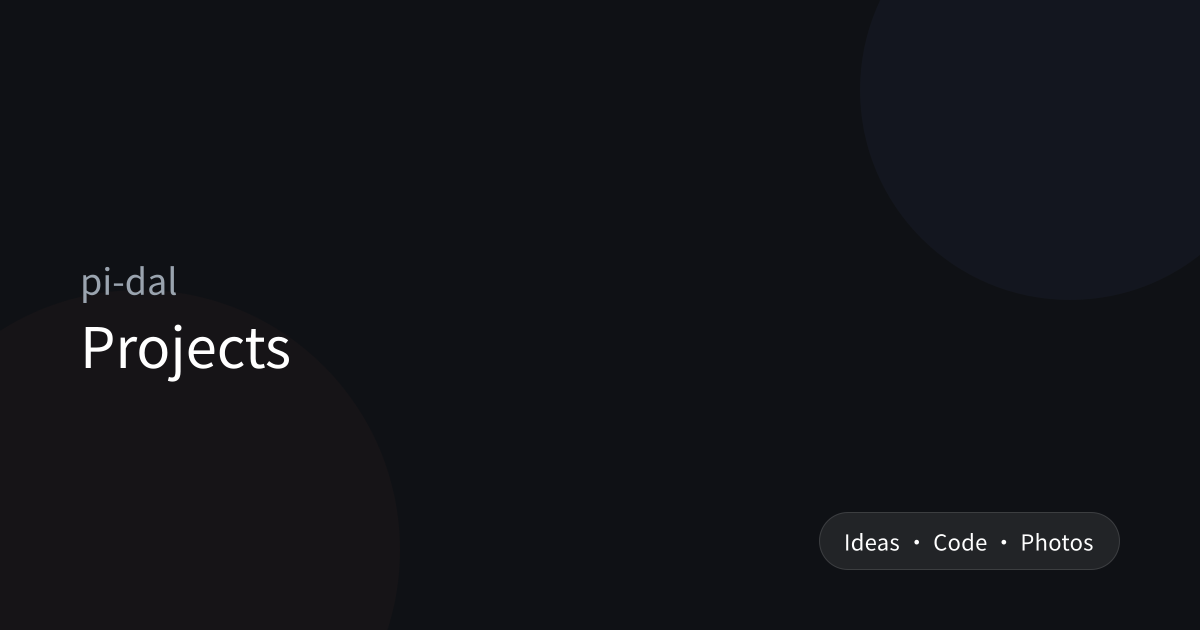
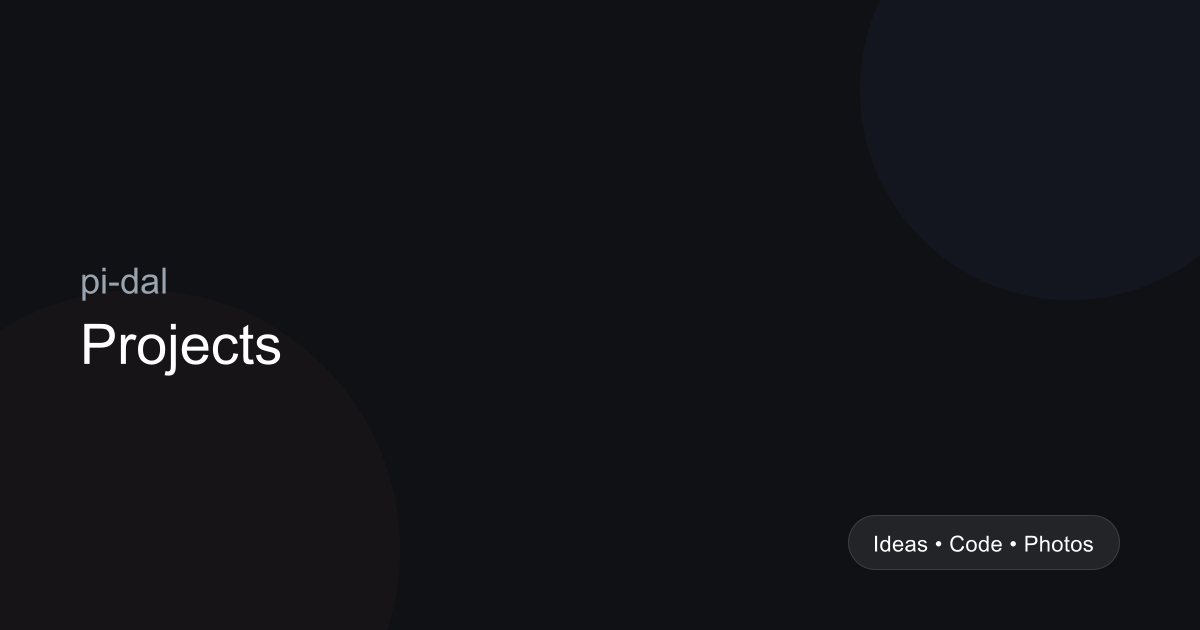
feat: enhance OG image font loading with system fallback and add projects page overhaul
- Rewrite projects page with categorized project listings (maintained vs contributed)
- Add system font fallback mechanism for OG image generation when remote fetch is disabled
- Introduce NO_WEBFONT_FETCH environment variable to control remote Google Fonts usage
- Add isSupportedFontData() to detect woff2 font format and reject incompatible buffers
- Add readFirstCompatibleFont() to iterate through font paths and find compatible ones
- Support multiple system font paths for cross-platform compatibility (macOS, Linux)
- Regenerate OG image for projects page to match updated content
- Add unit tests for font loading utilities (og-fonts.test.ts)

This change allows the build to work in CI/SSG environments where remote font
fetching is disabled, while still producing valid OG images using system fonts.

Changed region(s): [[0.0617, 0.5127, 0.2467, 0.6032], [0.6783, 0.8444, 0.925, 0.8746], [0.0617, 0.4222, 0.1542, 0.4825]]

diff --git a/scripts/og.ts b/scripts/og.ts
@@ -22,54 +22,56 @@ const FONT_URLS = {
   regular: 'https://fonts.googleapis.com/css2?family=Noto+Sans+SC:wght@400&display=swap',
   bold: 'https://fonts.googleapis.com/css2?family=Noto+Sans+SC:wght@700&display=swap',
 } as const
+const ALLOW_REMOTE_FONT_FETCH = process.env.NO_WEBFONT_FETCH !== '1'
+const SYSTEM_FONT_FALLBACKS = [
+  '/System/Library/Fonts/Supplemental/Arial Unicode.ttf',
+  '/System/Library/Fonts/Hiragino Sans GB.ttc',
+  '/System/Library/Fonts/STHeiti Light.ttc',
+  '/System/Library/Fonts/STHeiti Medium.ttc',
+  '/usr/share/fonts/opentype/noto/NotoSansCJK-Regular.ttc',
+  '/usr/share/fonts/truetype/noto/NotoSansCJK-Regular.ttc',
+  '/usr/share/fonts/truetype/dejavu/DejaVuSans.ttf',
+] as const
 
 const localFontCache = new Map<string, Buffer | null>()
 const remoteFontCache = new Map<string, Buffer>()
-let localFontDirEntries: string[] | null = null
 
-async function ensureLocalFontDirEntries(): Promise<string[]> {
-  if (localFontDirEntries)
-    return localFontDirEntries
+export function isSupportedFontData(buffer: Buffer): boolean {
+  if (buffer.length < 4)
+    return false
 
-  if (!await fs.pathExists(LOCAL_FONT_DIR)) {
-    localFontDirEntries = []
-    return localFontDirEntries
+  const signature = buffer.subarray(0, 4).toString('ascii')
+  return signature !== 'wOFF' && signature !== 'wOF2'
+}
+
+export async function readFirstCompatibleFont(paths: string[]): Promise<Buffer | null> {
+  for (const fontPath of paths) {
+    if (!await fs.pathExists(fontPath))
+      continue
+
+    const buffer = await fs.readFile(fontPath)
+    if (isSupportedFontData(buffer))
+      return buffer
   }
 
-  localFontDirEntries = await fs.readdir(LOCAL_FONT_DIR)
-  return localFontDirEntries
+  return null
 }
 
 async function loadLocalFont(key: string, filenames: string[]): Promise<Buffer | null> {
   if (localFontCache.has(key))
     return localFontCache.get(key) ?? null
 
-  for (const filename of filenames) {
-    const fullPath = join(LOCAL_FONT_DIR, filename)
-    if (await fs.pathExists(fullPath)) {
-      const buf = await fs.readFile(fullPath)
-      localFontCache.set(key, buf)
-      return buf
-    }
-  }
-
-  localFontCache.set(key, null)
-  return null
+  const buffer = await readFirstCompatibleFont(filenames.map(filename => join(LOCAL_FONT_DIR, filename)))
+  localFontCache.set(key, buffer)
+  return buffer
 }
 
-async function loadInterFallback(): Promise<Buffer | null> {
-  if (localFontCache.has('inter-fallback'))
-    return localFontCache.get('inter-fallback') ?? null
+async function loadSystemFontFallback(): Promise<Buffer | null> {
+  if (localFontCache.has('system-fallback'))
+    return localFontCache.get('system-fallback') ?? null
 
-  const entries = await ensureLocalFontDirEntries()
-  const candidate = entries.find(file => file.startsWith('inter-') && file.endsWith('.woff2'))
-  if (!candidate) {
-    localFontCache.set('inter-fallback', null)
-    return null
-  }
-
-  const buffer = await fs.readFile(join(LOCAL_FONT_DIR, candidate))
-  localFontCache.set('inter-fallback', buffer)
+  const buffer = await readFirstCompatibleFont([...SYSTEM_FONT_FALLBACKS])
+  localFontCache.set('system-fallback', buffer)
   return buffer
 }
 
@@ -99,6 +101,8 @@ async function fetchFontFromGoogle(fontUrl: string): Promise<Buffer> {
 
   const fontResponse = await withTimeout(signal => fetch(fontFileUrl, { signal }))
   const buf = Buffer.from(await fontResponse.arrayBuffer())
+  if (!isSupportedFontData(buf))
+    throw new Error(`Unsupported remote font format for ${fontUrl}`)
   remoteFontCache.set(fontUrl, buf)
   return buf
 }
@@ -137,7 +141,7 @@ export async function generateOGImage(options: OGImageOptions, outputPath: strin
     })
   }
 
-  if (missingVariants.length) {
+  if (missingVariants.length && ALLOW_REMOTE_FONT_FETCH) {
     const fetchResults = await Promise.allSettled(
       missingVariants.map(({ variant }) => fetchFontFromGoogle(FONT_URLS[variant])),
     )
@@ -150,23 +154,40 @@ export async function generateOGImage(options: OGImageOptions, outputPath: strin
     const rejected = fetchResults.filter((result): result is PromiseRejectedResult => result.status === 'rejected')
     if (rejected.length) {
       const lastError = rejected[rejected.length - 1]?.reason
-      const interFallback = await loadInterFallback()
-      if (interFallback) {
+      const systemFallback = await loadSystemFontFallback()
+      if (systemFallback) {
         if (!notoSansRegular) {
-          notoSansRegular = interFallback
-          localFontCache.set('noto-regular', interFallback)
+          notoSansRegular = systemFallback
+          localFontCache.set('noto-regular', systemFallback)
         }
         if (!notoSansBold) {
-          notoSansBold = interFallback
-          localFontCache.set('noto-bold', interFallback)
+          notoSansBold = systemFallback
+          localFontCache.set('noto-bold', systemFallback)
         }
-        console.warn('[og] Falling back to Inter for fonts; Noto Sans SC unavailable', lastError)
+        console.warn('[og] Falling back to a compatible system font; Noto Sans SC unavailable', lastError)
       }
       else {
         notoSansRegular = null
         notoSansBold = null
         console.warn('[og] Proceeding without embedded fonts due to fetch failure', lastError)
       }
+    }
+  }
+  else if (missingVariants.length) {
+    const systemFallback = await loadSystemFontFallback()
+    if (systemFallback) {
+      if (!notoSansRegular) {
+        notoSansRegular = systemFallback
+        localFontCache.set('noto-regular', systemFallback)
+      }
+      if (!notoSansBold) {
+        notoSansBold = systemFallback
+        localFontCache.set('noto-bold', systemFallback)
+      }
+      console.warn('[og] Using a compatible system font because remote font fetch is disabled')
+    }
+    else {
+      console.warn('[og] Proceeding without embedded fonts because remote font fetch is disabled and no compatible local fallback was found')
     }
   }
 

diff --git a/tests/unit/og-fonts.test.ts b/tests/unit/og-fonts.test.ts
@@ -1,0 +1,36 @@
+import { mkdtemp, writeFile } from 'node:fs/promises'
+import { tmpdir } from 'node:os'
+import { join } from 'node:path'
+
+import { afterEach, describe, expect, it } from 'vitest'
+
+import { isSupportedFontData, readFirstCompatibleFont } from '../../scripts/og'
+
+const tempDirs: string[] = []
+
+afterEach(async () => {
+  await Promise.all(tempDirs.map(dir => import('node:fs/promises').then(({ rm }) => rm(dir, { recursive: true, force: true }))))
+  tempDirs.length = 0
+})
+
+describe('og font loading', () => {
+  it('rejects woff2 buffers for Satori font embedding', () => {
+    expect(isSupportedFontData(Buffer.from('wOF2test'))).toBe(false)
+    expect(isSupportedFontData(Buffer.from([0x00, 0x01, 0x00, 0x00, 0x41, 0x42]))).toBe(true)
+  })
+
+  it('skips incompatible font files and keeps searching for a compatible font', async () => {
+    const dir = await mkdtemp(join(tmpdir(), 'og-fonts-'))
+    tempDirs.push(dir)
+
+    const unsupportedPath = join(dir, 'unsupported.woff2')
+    const compatiblePath = join(dir, 'compatible.ttf')
+
+    await writeFile(unsupportedPath, Buffer.from('wOF2fake'))
+    await writeFile(compatiblePath, Buffer.from([0x00, 0x01, 0x00, 0x00, 0x41, 0x42]))
+
+    const resolved = await readFirstCompatibleFont([unsupportedPath, compatiblePath])
+
+    expect(resolved).toEqual(Buffer.from([0x00, 0x01, 0x00, 0x00, 0x41, 0x42]))
+  })
+})

diff --git a/pages/projects.md b/pages/projects.md
@@ -5,12 +5,35 @@ type: project
 description: Things I build, maintain, or keep experimenting with.
 ---
 
-Most of my public work currently lives on GitHub. This page is the lightweight index while I turn the old remote feed into a proper local project archive.
+Most of my public work lives on GitHub, but the repos do not all represent the same kind of work. Some are projects I build and maintain end to end. Others are open-source or community repos where I contribute fixes, docs, and site work.
 
-Current places to look:
+This page is the short index for the work that best represents how I like to build.
+
+## Projects I maintain
+
+### [django-vditor](https://github.com/pi-dal/django-vditor)
+
+A Django package that brings [Vditor](https://github.com/Vanessa219/vditor) into admin forms and content workflows. It started as a practical editor integration, then grew into a more production-ready package with widgets, upload support, documentation, and a public demo site.
+
+- [Project homepage](https://django-vditor.pi-dal.com/)
+- [Source code](https://github.com/pi-dal/django-vditor)
+
+### [Abraxas](https://github.com/pi-dal/Abraxas)
+
+A personal meta-agent and AI-native agent experiment that grows through conversation instead of hardcoded behavior. The core stays intentionally small, while skills, plugins, memory artifacts, and channel adapters carry most of the behavior.
+
+- [Repository](https://github.com/pi-dal/Abraxas)
+
+## Projects I contribute to
+
+### [ArozOS](https://github.com/tobychui/arozos)
+
+An open-source web desktop operating system for low-power devices. I contributed fixes and documentation updates there, and it remains one of the projects that taught me how to work inside an existing codebase instead of only shipping my own ideas from scratch.
+
+- [Repository](https://github.com/tobychui/arozos)
+- [My commits](https://github.com/tobychui/arozos/commits?author=pi-dal)
+
+## Elsewhere
 
 - [GitHub profile](https://github.com/pi-dal)
-- [nuxt-xlog-website](https://github.com/pi-dal/nuxt-xlog-website)
 - [Photography site](https://photography.pi-dal.com)
-
-The long-term goal is simple: fewer dead integrations, more local files, clearer project notes.
